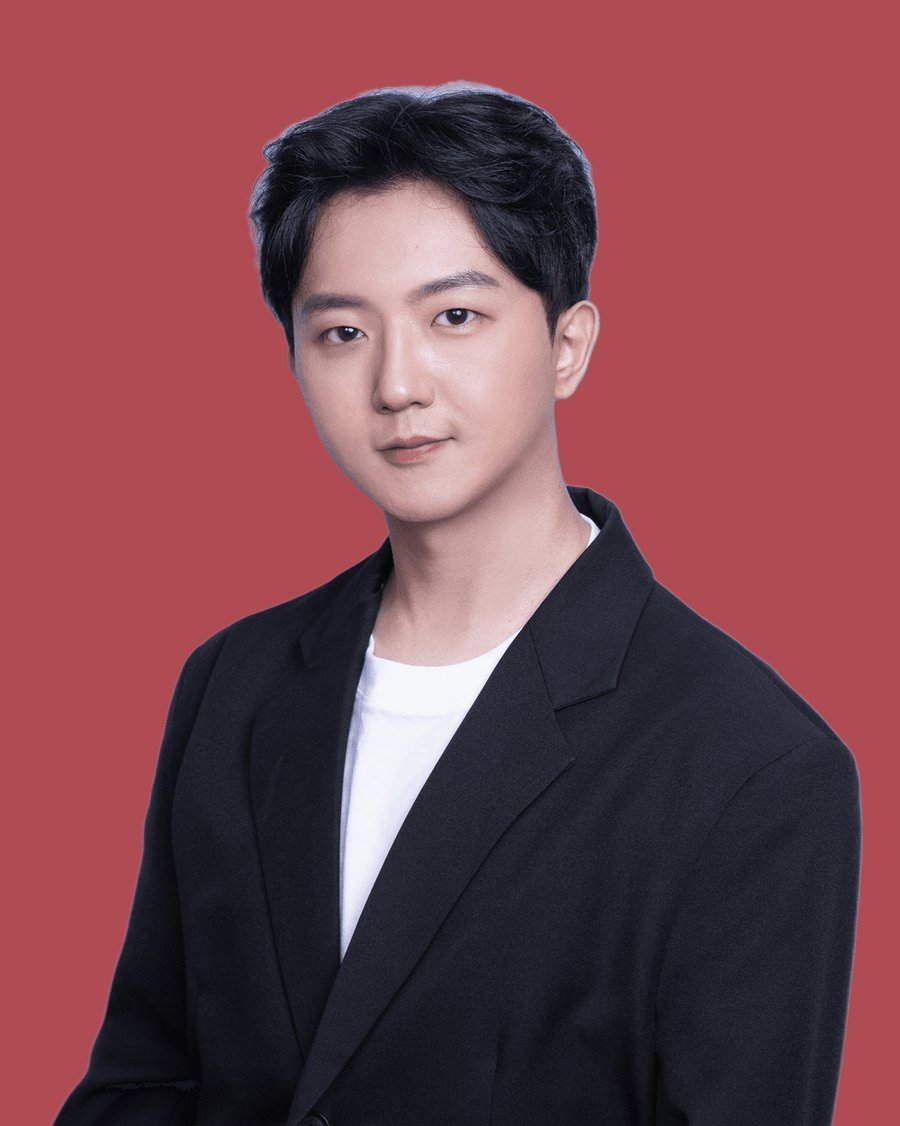
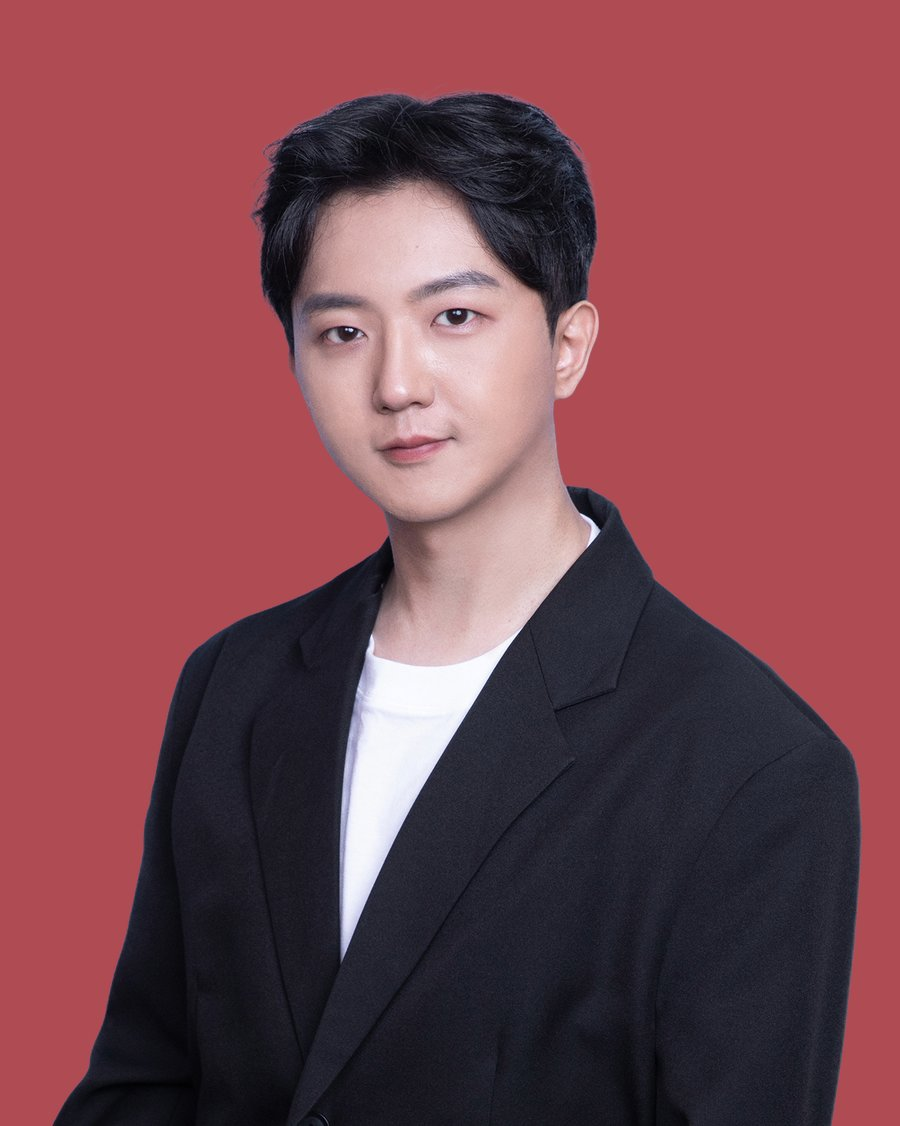
7차 요청 처리: 작은 항목 8개 (마이페이지 이동, 질문/답변 사진첨부, 과제 빠른등록, 질의응답 반 표시, 사진 재교체, 사이드바 리셋, 반추가 위치, 커리큘럼 수정)
- 마이페이지/관리자페이지 버튼이 항상 홈(통합관리센터)으로 가도록 탭 상태를 리셋
- 학생 질문(홈+질의응답탭)과 교사 답변에 사진 첨부 기능 추가
- 관리자 홈에 과제 빠른 등록 카드 신설(기존 addHomework 재사용)
- 질의응답 관리 화면에 학생 반 이름 표시
- 사용자가 직접 배경 제거한 새 프로필 사진으로 재교체(브랜드색 합성)
- 사이드바 "반 목록/반별 관리" 클릭 시 항상 반 목록 첫 화면으로 리셋
- "반 추가" 폼을 반 목록 페이지에서 설정>관리자 페이지로 이동
- 공통수학2에 절대부등식/합성함수와 역함수 추가, 대수·미적분Ⅰ 단원 목록을
  실제 커리큘럼으로 교체

diff --git a/index.html b/index.html
@@ -677,6 +677,8 @@ let state = {
   wrongExamId: null,
   wrongChecked: {},
   examImagesCache: {},
+  qnaQuestionImage: null,
+  qnaAnswerImage: {},
   unitBankLoaded: false,
   unitBankLoading: false,
   unitBankFilter: '',
@@ -714,13 +716,14 @@ let DATA = {
   exams: [], problemBank: [], unitBank: [], assignments: []
 };
 const UNITS = ['공통수학1', '공통수학2', '대수', '미적분Ⅰ', '확률과통계', '기하', '미적분Ⅱ'];
-// 반별 진도 체크리스트용 과목별 단원 목록. 공통수학1은 실제 사용 목록 그대로, 나머지는
-// 2022 개정 교육과정 기준으로 채워둔 추정치라 필요하면 직접 고쳐도 됨.
+// 반별 진도 체크리스트용 과목별 단원 목록. 공통수학1·공통수학2·대수·미적분Ⅰ은 실제 사용
+// 목록 그대로, 확률과통계·기하·미적분Ⅱ는 2022 개정 교육과정 기준으로 채워둔 추정치라
+// 필요하면 직접 고쳐도 됨.
 const UNIT_CHAPTERS = {
   '공통수학1': ['다항식의 연산','항등식과 나머지정리','인수분해','복소수','이차방정식','이차함수','여러가지 방정식','여러가지 부등식','경우의 수','행렬'],
-  '공통수학2': ['평면좌표','직선의 방정식','원의 방정식','도형의 이동','집합','명제','함수','유리함수와 무리함수'],
-  '대수': ['지수와 로그','지수함수와 로그함수','삼각함수의 뜻과 그래프','삼각함수의 활용','등차수열과 등비수열','수열의 합','수학적 귀납법'],
-  '미적분Ⅰ': ['함수의 극한','함수의 연속','다항함수의 미분법','도함수의 활용','다항함수의 적분법'],
+  '공통수학2': ['평면좌표','직선의 방정식','원의 방정식','도형의 이동','집합','명제','절대부등식','함수','합성함수와 역함수','유리함수와 무리함수'],
+  '대수': ['지수','로그','지수함수','로그함수','일반각과 호도법','삼각함수의 그래프','삼각함수의 활용','등차수열','등비수열','수열의 합','수학적 귀납법'],
+  '미적분Ⅰ': ['함수의 극한','함수의 연속','미분계수와 도함수','도함수의 활용(1) 접선의 방정식','도함수의 활용(2) 함수의 증가와 감소, 극대와 극소','도함수의 활용(3) 다항함수의 그래프','부정적분과 정적분','정적분의 활용','속도와 가속도'],
   '확률과통계': ['경우의 수(순열과 조합)','확률의 뜻과 활용','조건부확률','이산확률변수와 확률분포','이항분포','정규분포','통계적 추정'],
   '기하': ['이차곡선','평면벡터','공간도형','공간좌표'],
   '미적분Ⅱ': ['수열의 극한','여러 가지 함수의 미분','여러 가지 미분법','도함수의 활용','여러 가지 적분법','정적분의 활용'],
@@ -1145,13 +1148,46 @@ async function deleteClinic(cid){
 }
 
 /* =================== 질의응답 =================== */
+function qnaImageFieldHTML(imageValue, onchangeCall, onremoveCall){
+  return `<div class="field">
+    ${imageValue ? `<div style="position:relative;display:inline-block;">
+      <img src="${imageValue}" style="max-width:160px;max-height:160px;border-radius:4px;border:1px solid var(--card-border);display:block;">
+      <button class="btn btn-red btn-small" style="position:absolute;top:2px;right:2px;padding:1px 6px;" onclick="${onremoveCall}">×</button>
+    </div>` : `<input type="file" accept="image/*" onchange="${onchangeCall}">`}
+  </div>`;
+}
+async function handleQnaQuestionImage(fileList){
+  const f = (fileList||[])[0];
+  if(!f) return;
+  try{
+    state.qnaQuestionImage = await compressImageToBase64(f);
+  }catch(e){ console.error('이미지 처리 실패', e); showToast('이미지를 처리하지 못했습니다.'); }
+  render();
+}
+function removeQnaQuestionImage(){
+  state.qnaQuestionImage = null;
+  render();
+}
+async function handleQnaAnswerImage(qid, fileList){
+  const f = (fileList||[])[0];
+  if(!f) return;
+  try{
+    state.qnaAnswerImage[qid] = await compressImageToBase64(f);
+  }catch(e){ console.error('이미지 처리 실패', e); showToast('이미지를 처리하지 못했습니다.'); }
+  render();
+}
+function removeQnaAnswerImage(qid){
+  delete state.qnaAnswerImage[qid];
+  render();
+}
 async function submitQuestion(){
   const sid = state.currentUser.studentId;
   const question = document.getElementById('qna-question').value.trim();
   if(!question){ showToast('질문 내용을 입력해주세요.'); return; }
-  DATA.qnas.unshift({id:'qn'+Date.now(), studentId:sid, studentName:state.currentUser.name, question, date:new Date().toISOString().slice(0,10), answer:null, answeredAt:null});
+  DATA.qnas.unshift({id:'qn'+Date.now(), studentId:sid, studentName:state.currentUser.name, question, image:state.qnaQuestionImage||null, date:new Date().toISOString().slice(0,10), answer:null, answerImage:null, answeredAt:null});
   await dbSet('qnas', DATA.qnas);
   document.getElementById('qna-question').value='';
+  state.qnaQuestionImage = null;
   showToast('질문이 등록되었습니다.');
   render();
 }
@@ -1160,8 +1196,9 @@ async function submitAnswer(qid){
   if(!val){ showToast('답변을 입력해주세요.'); return; }
   const q = DATA.qnas.find(q=>q.id===qid);
   if(!q) return;
-  q.answer = val; q.answeredAt = new Date().toISOString().slice(0,10);
+  q.answer = val; q.answerImage = state.qnaAnswerImage[qid]||null; q.answeredAt = new Date().toISOString().slice(0,10);
   await dbSet('qnas', DATA.qnas);
+  delete state.qnaAnswerImage[qid];
   showToast('답변이 등록되었습니다.');
   render();
 }
@@ -2313,7 +2350,7 @@ function headerHTML(){
     <div class="header-actions">
       ${loggedIn
         ? `<span class="mono" style="font-size:12px;color:var(--ink-soft);align-self:center;margin-right:6px;">${loggedIn.type==='teacher'?'관리자':loggedIn.name+' 학생'}</span>
-           <button class="btn btn-small" onclick="goto('${loggedIn.type==='teacher'?'teacher':'student'}')">${loggedIn.type==='teacher'?'관리자 페이지로':'마이페이지로'}</button>
+           <button class="btn btn-small" onclick="${loggedIn.type==='teacher'?"state.teacherTab='home';":"state.studentTab='home';"} goto('${loggedIn.type==='teacher'?'teacher':'student'}')">${loggedIn.type==='teacher'?'관리자 페이지로':'마이페이지로'}</button>
            <button class="btn btn-red btn-small" onclick="logout()">로그아웃</button>`
         : `<button class="btn btn-small" onclick="state.loginMode='student'; goto('login')">학생 로그인</button>
            <button class="btn btn-primary btn-small" onclick="state.loginMode='teacher'; goto('login')">강사 로그인</button>`
@@ -2547,6 +2584,7 @@ function studentHTML(){
       <div class="home-card">
         <h4>💬 무엇이든 물어보세요</h4>
         <div class="field"><textarea id="qna-question" placeholder="문제 질문은 물론, 학습 상담 등 무엇이든 편하게 남겨주세요!" style="min-height:70px;"></textarea></div>
+        ${qnaImageFieldHTML(state.qnaQuestionImage, 'handleQnaQuestionImage(this.files)', 'removeQnaQuestionImage()')}
         <button class="btn btn-primary" style="width:100%;" onclick="submitQuestion()">질문 보내기</button>
       </div>
     </div>
@@ -2691,6 +2729,7 @@ function studentHTML(){
   } else if(state.studentTab==='qna'){
     body = `<div class="panel"><h3>질문 등록</h3>
       <div class="field"><label>질문 내용</label><textarea id="qna-question" placeholder="궁금한 점을 자유롭게 남겨주세요"></textarea></div>
+      ${qnaImageFieldHTML(state.qnaQuestionImage, 'handleQnaQuestionImage(this.files)', 'removeQnaQuestionImage()')}
       <button class="btn btn-primary" onclick="submitQuestion()">질문하기</button>
     </div>
     <div class="panel"><h3>질의응답 게시판</h3>
@@ -2698,7 +2737,8 @@ function studentHTML(){
       DATA.qnas.map(q=>`<div class="qna-card">
         <div class="qna-meta">${q.date} · ${escHtml(q.studentName)}</div>
         <div class="qna-q">Q. ${escHtml(q.question)}</div>
-        ${q.answer?`<div class="qna-answer"><div class="label">A. 답변</div>${escHtml(q.answer)}</div>`:'<div class="qna-noanswer">아직 답변이 등록되지 않았습니다.</div>'}
+        ${q.image?`<img src="${q.image}" style="max-width:200px;max-height:200px;margin-top:8px;border-radius:4px;border:1px solid var(--card-border);display:block;">`:''}
+        ${q.answer?`<div class="qna-answer"><div class="label">A. 답변</div>${escHtml(q.answer)}${q.answerImage?`<img src="${q.answerImage}" style="max-width:200px;max-height:200px;margin-top:8px;border-radius:4px;border:1px solid var(--card-border);display:block;">`:''}</div>`:'<div class="qna-noanswer">아직 답변이 등록되지 않았습니다.</div>'}
       </div>`).join('')}
     </div>`;
   } else if(state.studentTab==='video'){
@@ -2762,7 +2802,7 @@ function teacherHTML(){
   <div class="dash-header"><h2>관리자 페이지</h2></div>
   <div class="teacher-layout">
     <div class="teacher-sidebar">
-      ${groups.map(g=>`<div class="side-group-label">${g[0]}</div>${g[1].map(t=>`<button class="side-btn ${state.teacherTab===t[0]?'active':''}" onclick="state.teacherTab='${t[0]}'; render()">${t[1]}</button>`).join('')}`).join('')}
+      ${groups.map(g=>`<div class="side-group-label">${g[0]}</div>${g[1].map(t=>`<button class="side-btn ${state.teacherTab===t[0]?'active':''}" onclick="state.teacherTab='${t[0]}';${t[0]==='classhub'?" state.classHubId=null; state.studentDetailId=null;":''} render()">${t[1]}</button>`).join('')}`).join('')}
     </div>
     <div class="teacher-main">${body}</div>
   </div>
@@ -2879,21 +2919,22 @@ function teacherHomeHTML(){
       ${DATA.classes.length===0 ? '<div class="empty">등록된 반이 없습니다.</div>' :
         DATA.classes.map(c=>`<button class="btn" style="width:100%;margin-bottom:8px;text-align:left;" onclick="state.teacherTab='classhub'; state.classHubId='${c.id}'; state.classHubTab='attendance'; render()">${escHtml(c.name)} 출석부 열기</button>`).join('')}
     </div>
+  </div>
+  <div class="home-card">
+    <h4>📚 과제 빠른 등록</h4>
+    <div class="inline-form">
+      <div class="field"><label>대상 반</label><select id="hw-class">${classOptionsHTML(null)}</select></div>
+      <div class="field" style="flex:2;"><label>과제명</label><input id="hw-title" placeholder="예: 3단원 오답노트 정리"></div>
+      <div class="field"><label>마감일</label><input id="hw-due" type="date"></div>
+    </div>
+    <div class="field"><label>설명 (선택)</label><textarea id="hw-desc" placeholder="과제 상세 내용을 입력하세요"></textarea></div>
+    <button class="btn btn-primary" onclick="addHomework()">등록</button>
   </div>`;
 }
 
 /* ---------- 반 관리 ---------- */
 function teacherClassesHTML(){
   return `
-  <div class="panel">
-    <h3>반 추가</h3>
-    <div class="inline-form">
-      <div class="field"><label>반 이름</label><input id="new-cname" placeholder="예: [특강]미적분"></div>
-      <div class="field"><label>강의 시간</label><input id="new-cschedule" placeholder="예: 월,수,금 7시~9시"></div>
-      <div class="field"><label>기간</label><input id="new-cperiod" placeholder="예: 26.03~26.12"></div>
-      <button class="btn btn-primary" onclick="addClass()">추가</button>
-    </div>
-  </div>
   <div class="panel">
     <h3>반 목록 (${DATA.classes.length}개)</h3>
     ${DATA.classes.length===0?'<div class="empty">등록된 반이 없습니다.</div>':`
@@ -3318,13 +3359,16 @@ function teacherQnaHTML(){
   <div class="panel">
     <h3>질의응답 관리 (${DATA.qnas.length}건)</h3>
     ${DATA.qnas.length===0?'<div class="empty">등록된 질문이 없습니다.</div>':
-    DATA.qnas.map(q=>`<div class="qna-card">
-      <div class="qna-meta">${q.date} · ${escHtml(q.studentName)}</div>
+    DATA.qnas.map(q=>{
+      const stu = DATA.students.find(s=>s.studentId===q.studentId);
+      return `<div class="qna-card">
+      <div class="qna-meta">${q.date} · ${escHtml(q.studentName)}${stu?` · ${escHtml(classNameOf(stu.classId))}`:''}</div>
       <div class="qna-q">Q. ${escHtml(q.question)}</div>
-      ${q.answer?`<div class="qna-answer"><div class="label">A. 답변 완료</div>${escHtml(q.answer)}</div>`:
-      `<div class="inline-form" style="margin-top:10px;"><div class="field" style="flex:1;"><input id="answer-${q.id}" placeholder="답변 입력"></div><button class="btn btn-primary btn-small" onclick="submitAnswer('${q.id}')">등록</button></div>`}
+      ${q.image?`<img src="${q.image}" style="max-width:200px;max-height:200px;margin-top:8px;border-radius:4px;border:1px solid var(--card-border);display:block;">`:''}
+      ${q.answer?`<div class="qna-answer"><div class="label">A. 답변 완료</div>${escHtml(q.answer)}${q.answerImage?`<img src="${q.answerImage}" style="max-width:200px;max-height:200px;margin-top:8px;border-radius:4px;border:1px solid var(--card-border);display:block;">`:''}</div>`:
+      `<div class="inline-form" style="margin-top:10px;align-items:flex-end;"><div class="field" style="flex:1;"><input id="answer-${q.id}" placeholder="답변 입력"></div>${qnaImageFieldHTML(state.qnaAnswerImage[q.id], `handleQnaAnswerImage('${q.id}',this.files)`, `removeQnaAnswerImage('${q.id}')`)}<button class="btn btn-primary btn-small" onclick="submitAnswer('${q.id}')">등록</button></div>`}
       <div style="margin-top:8px;"><button class="btn btn-red btn-small" onclick="deleteQna('${q.id}')">삭제</button></div>
-    </div>`).join('')}
+    </div>`;}).join('')}
   </div>`;
 }
 
@@ -3643,6 +3687,15 @@ function teacherSettingsHTML(){
 function teacherSettingsAdminHTML(){
   markConsultsSeen();
   return `
+  <div class="panel">
+    <h3>반 추가</h3>
+    <div class="inline-form">
+      <div class="field"><label>반 이름</label><input id="new-cname" placeholder="예: [특강]미적분"></div>
+      <div class="field"><label>강의 시간</label><input id="new-cschedule" placeholder="예: 월,수,금 7시~9시"></div>
+      <div class="field"><label>기간</label><input id="new-cperiod" placeholder="예: 26.03~26.12"></div>
+      <button class="btn btn-primary" onclick="addClass()">추가</button>
+    </div>
+  </div>
   <div class="panel">
     <h3>학생 계정 추가</h3>
     <p class="hint" style="margin-top:-8px;">등록 후에는 [반 관리] &gt; 반을 열고 학생 명단에서 상세보기로 수정·삭제할 수 있습니다.</p>
